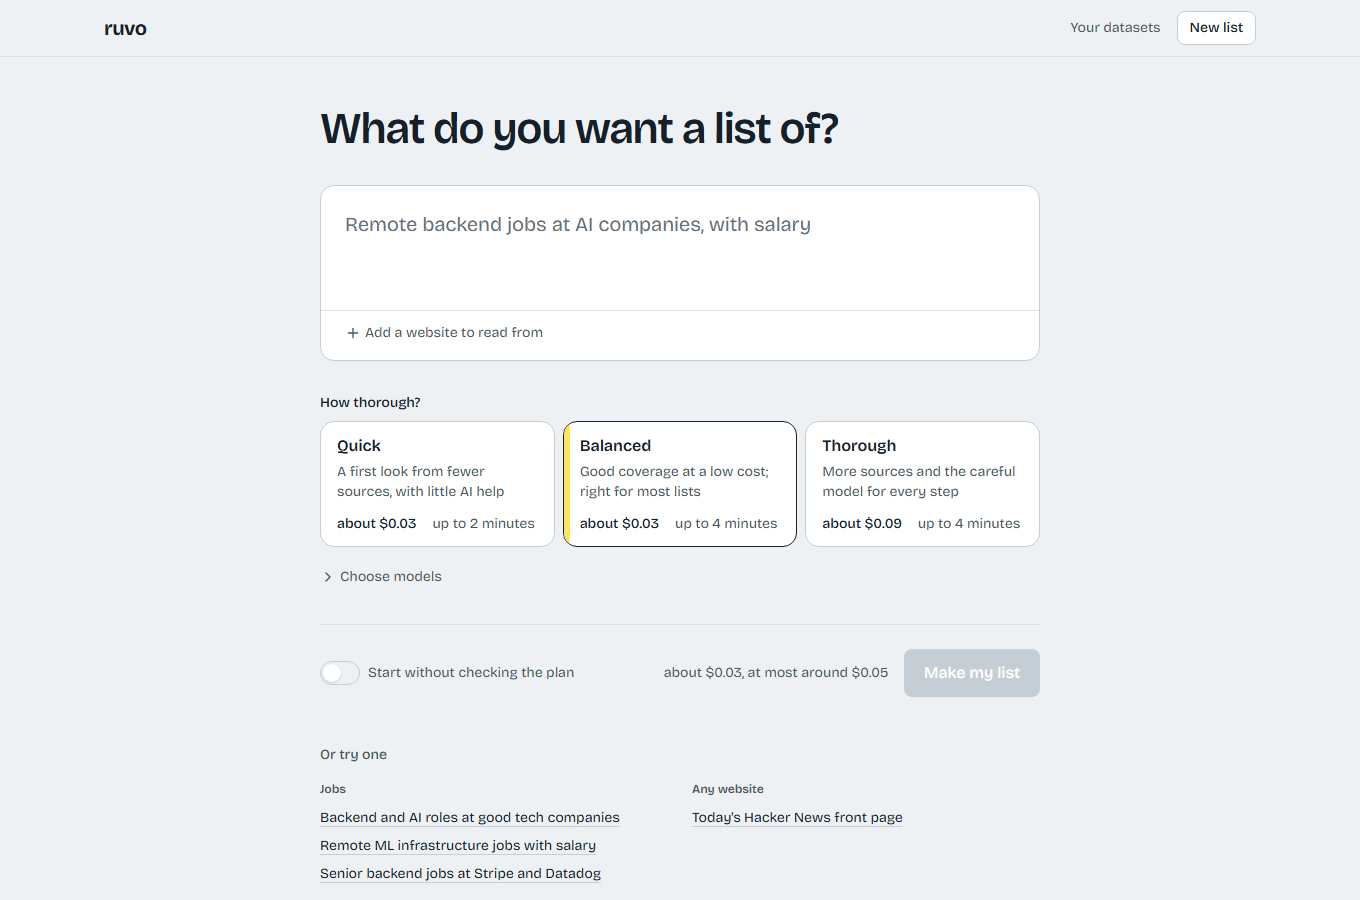
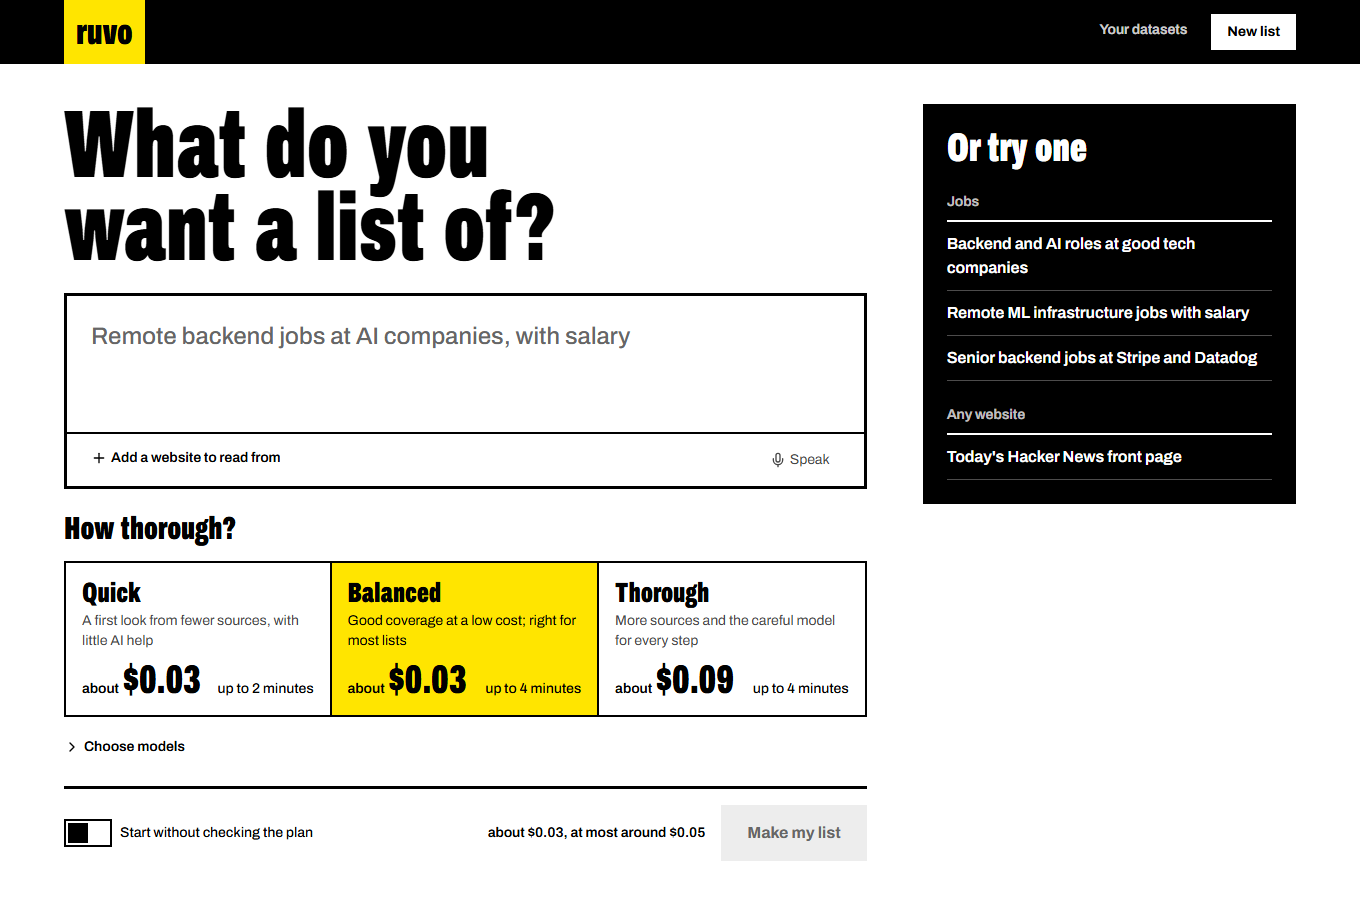
docs: editorial design system
- Describe the new palette, Archivo widths, type scale, rule weights and components
- /design renders the new tokens, rules and display sizes
- New ask and receipt screenshots

diff --git a/apps/web/components/design/design-sheet.tsx b/apps/web/components/design/design-sheet.tsx
@@ -16,33 +16,36 @@ import { Table, TableBody, TableCell, TableHead, TableHeader, TableRow } from "@
 import { Tooltip } from "@/components/ui/tooltip";
 
 const COLOURS: Array<[token: string, hex: string, role: string]> = [
-  ["canvas", "#EEF1F3", "Page background"],
-  ["sheet", "#FFFFFF", "Surfaces: composer, table, drawers"],
-  ["ink", "#16202A", "Text, primary buttons, focus"],
-  ["graphite", "#4A5761", "Secondary text"],
-  ["pencil", "#646F79", "Placeholders, hints, inactive labels"],
-  ["hairline", "#DCE2E6", "Rules and borders"],
-  ["highlighter", "#FFE45C", "Found, proven, chosen, progress"],
-  ["highlighter-wash", "#FFF6C7", "Soft highlight, focus halo"],
-  ["stamp", "#1E7A4F", "Sure, verified, done"],
-  ["amber", "#9A5B00", "Check this, warnings"],
-  ["brick", "#B42318", "Errors, destructive actions"],
+  ["canvas", "#FFFFFF", "Paper: page and surfaces"],
+  ["newsprint", "#EDEDED", "Quotes, zebra rows, empty tracks"],
+  ["ink", "#000000", "Text, rules, control outlines, focus"],
+  ["graphite", "#474747", "Secondary text"],
+  ["pencil", "#666666", "Placeholders, hints, inactive labels"],
+  ["hairline", "#D4D4D4", "Row rules inside tables and lists"],
+  ["highlighter", "#FFE500", "Found, proven, chosen, progress"],
+  ["highlighter-wash", "#FFF6A3", "Hover and focused fields"],
+  ["stamp", "#0F6B3F", "Sure, verified, done"],
+  ["amber", "#8A4F00", "Check this, warnings"],
+  ["brick", "#C0150C", "Errors, destructive actions"],
 ];
 
 // Literal class names, so Tailwind finds them.
 const TYPE: Array<[name: string, className: string, spec: string]> = [
-  ["display", "text-display font-semibold", "44 / 48, semibold"],
-  ["title", "text-title font-semibold", "28 / 34, semibold"],
-  ["heading", "text-heading font-semibold", "20 / 28, semibold"],
+  ["mega", "font-display text-mega font-black", "80–176, display black"],
+  ["display", "font-display text-display font-black", "52–104, display black"],
+  ["title", "font-display text-title font-black", "36–56, display black"],
+  ["heading", "text-heading font-semibold", "22 / 28, semibold"],
   ["body", "text-body", "16 / 24"],
   ["small", "text-small", "14 / 20"],
   ["micro", "text-micro", "12 / 16"],
 ];
 
-const RADII = [
-  ["control", "rounded-control"],
-  ["panel", "rounded-panel"],
-  ["sheet", "rounded-sheet"],
+// Rule weights, lightest to heaviest.
+const RULES = [
+  ["hairline", "border-t border-hairline"],
+  ["control", "border-t-2 border-ink"],
+  ["header", "border-t-[3px] border-ink"],
+  ["section", "border-t-[6px] border-ink"],
 ] as const;
 
 const SPACE: Array<[name: string, px: number]> = [
@@ -55,8 +58,8 @@ const SPACE: Array<[name: string, px: number]> = [
 
 function Section({ title, children }: { title: string; children: ReactNode }) {
   return (
-    <section className="space-y-group border-t border-hairline pt-stack">
-      <h2 className="text-heading font-semibold">{title}</h2>
+    <section className="space-y-group border-t-[6px] border-ink pt-group">
+      <h2 className="font-display text-title font-black">{title}</h2>
       {children}
     </section>
   );
@@ -65,18 +68,18 @@ function Section({ title, children }: { title: string; children: ReactNode }) {
 export function DesignSheet() {
   return (
     <div className="mx-auto max-w-5xl space-y-section pb-section">
-      <header className="space-y-tight">
-        <h1 className="text-display font-semibold">Design system</h1>
-        <p className="max-w-prose text-graphite">
-          A list-maker with receipts: quiet ink on cool paper, and <span className="mark">one highlighter</span> for what RUVO found or you chose.
+      <header className="space-y-item">
+        <h1 className="font-display text-display font-black">Design system</h1>
+        <p className="max-w-prose text-heading text-graphite">
+          A list-maker with receipts, set like a Swiss magazine: black ink on white paper, thick rules, and <span className="mark">one highlighter</span> for what RUVO found or you chose.
         </p>
       </header>
 
       <Section title="Colour">
         <ul className="grid grid-cols-2 gap-item sm:grid-cols-3 lg:grid-cols-4">
           {COLOURS.map(([token, hex, role]) => (
-            <li key={token} className="overflow-hidden rounded-panel border border-hairline bg-sheet">
-              <div className="h-16" style={{ background: `var(--color-${token})` }} />
+            <li key={token} className="border-2 border-ink bg-sheet">
+              <div className="h-16 border-b-2 border-ink" style={{ background: `var(--color-${token})` }} />
               <div className="space-y-0.5 p-3">
                 <p className="text-small font-medium">{token}</p>
                 <p className="text-micro text-graphite">{hex}</p>
@@ -88,7 +91,7 @@ export function DesignSheet() {
       </Section>
 
       <Section title="Type">
-        <p className="text-small text-graphite">Bricolage Grotesque for everything. Spline Sans Mono only for text quoted from a source page.</p>
+        <p className="text-small text-graphite">Archivo in two widths: extra condensed black for display and big numbers, normal width for reading. Spline Sans Mono only for text quoted from a source page.</p>
         <div className="space-y-item">
           {TYPE.map(([name, className, spec]) => (
             <div key={name} className="flex flex-wrap items-baseline gap-x-group">
@@ -103,19 +106,19 @@ export function DesignSheet() {
         </div>
       </Section>
 
-      <Section title="Space and radius">
+      <Section title="Space and rules">
         <div className="space-y-tight">
           {SPACE.map(([name, px]) => (
             <div key={name} className="flex items-center gap-item">
               <span className="w-20 text-micro text-graphite">{name}</span>
-              <span className="h-3 rounded-sm bg-ink/70" style={{ width: px * 2 }} />
+              <span className="h-3 bg-ink" style={{ width: px * 2 }} />
               <span className="text-micro text-pencil">{px}px</span>
             </div>
           ))}
         </div>
-        <div className="flex flex-wrap gap-item">
-          {RADII.map(([name, radius]) => (
-            <div key={name} className={`flex size-24 items-end border border-hairline-strong bg-sheet p-2 text-micro text-graphite ${radius}`}>
+        <div className="grid gap-item sm:grid-cols-4">
+          {RULES.map(([name, rule]) => (
+            <div key={name} className={`pt-tight text-micro text-graphite ${rule}`}>
               {name}
             </div>
           ))}
@@ -179,7 +182,7 @@ export function DesignSheet() {
       </Section>
 
       <Section title="Table, sheet, menu, tooltip, toast">
-        <div className="overflow-hidden rounded-panel border border-hairline bg-sheet">
+        <div className="border-t-[6px] border-ink">
           <Table>
             <TableHeader>
               <TableRow>

diff --git a/docs/design-system.md b/docs/design-system.md
@@ -4,73 +4,89 @@ RUVO is for anyone who needs a list: a recruiter, a job seeker, a student, a res
 They describe the list, check a short plan, and download a sheet they can trust. The design
 serves that job and hides the machinery until someone asks for it.
 
-Tokens live in `apps/web/app/globals.css`. In development, `/design` renders every token and
-component on one page.
+The look is a Swiss, slightly brutalist magazine: huge condensed type, black ink on white paper,
+thick rules, square blocks, and the highlighter as the one colour. Tokens live in
+`apps/web/app/globals.css`. In development, `/design` renders every token and component on one page.
 
 ## Principles
 
 1. **A list-maker with receipts.** The product is a sheet of rows. Every value has a receipt:
    where it came from and the words it was read from.
-2. **One highlighter.** The yellow mark means *found, proven or chosen*. It appears on quoted
-   source text in a receipt, on the option you picked, and on progress. It appears nowhere else,
-   and it is always a background behind ink, never a text colour.
-3. **Quiet everywhere else.** Ink on cool paper, hairlines instead of boxes, no shadows on static
-   panels. Buttons are ink, not brand colour.
-4. **Plain words first, details on request.** The default screens speak in everyday terms. The
+2. **One highlighter.** Yellow means *found, proven or chosen*: quoted source text, the option
+   you picked, the rows RUVO found (the row count and live count sit on a yellow block), values
+   checked against their page, and progress. Hovering a button marks it yellow because you are
+   about to choose it. It is always a background behind black ink, never a text colour.
+3. **Set the numbers big.** Row counts, prices and percentages are set in the condensed display
+   cut at poster sizes, with a plain sentence beside them saying what they mean.
+4. **Rules, not boxes.** Structure comes from ink rules of set weights and from square frames on
+   things you can press. No rounded corners, no soft shadows, no cards inside cards.
+5. **Plain words first, details on request.** The default screens speak in everyday terms. The
    pipeline (contract, workflow, recipes, decisions, event log) sits behind one **Show details**
    switch.
-5. **Money and time are always visible.** Before a run: an estimate. After: what it spent.
+6. **Money and time are always visible.** Before a run: an estimate. After: what it spent.
 
 ## Colour
 
 | Token | Hex | Use |
 |---|---|---|
-| `canvas` | `#EEF1F3` | Page background |
-| `sheet` | `#FFFFFF` | Surfaces: composer, table, drawers |
-| `ink` | `#16202A` | Text, primary buttons, focus outline |
-| `graphite` | `#4A5761` | Secondary text |
-| `pencil` | `#646F79` | Placeholders, hints, inactive labels |
-| `hairline` / `hairline-strong` | `#DCE2E6` / `#C5CED4` | Rules, borders, control outlines |
-| `highlighter` | `#FFE45C` | The signature: evidence quotes, the chosen option, progress |
-| `highlighter-wash` | `#FFF6C7` | Focus halo, new-row flash |
-| `stamp` (+ `-wash`) | `#1E7A4F` | Sure, verified, done |
-| `amber` (+ `-wash`) | `#9A5B00` | Check this, warnings |
-| `brick` (+ `-wash`) | `#B42318` | Errors, destructive actions |
+| `canvas`, `sheet` | `#FFFFFF` | Paper: the page and every surface |
+| `newsprint` | `#EDEDED` | Quotes, zebra rows, empty progress, disabled controls |
+| `ink` | `#000000` | Text, rules, control outlines, primary buttons, the top bar, focus |
+| `graphite` | `#474747` | Secondary text |
+| `pencil` | `#666666` | Placeholders, hints, inactive labels |
+| `hairline` | `#D4D4D4` | Row rules inside tables and lists (`hairline-strong` is ink) |
+| `highlighter` | `#FFE500` | The signature: found, proven, chosen, progress |
+| `highlighter-wash` | `#FFF6A3` | Row hover, focused fields |
+| `stamp` (+ `-wash`) | `#0F6B3F` | Sure, verified, done |
+| `amber` (+ `-wash`) | `#8A4F00` | Check this, warnings |
+| `brick` (+ `-wash`) | `#C0150C` | Errors, destructive actions |
 
 `structured`, `pattern`, `model` and `derived` colour the trust tiers in the charts behind
 *Show details*. Meaning colours always come with a word or an icon, never colour alone.
 
-Contrast (WCAG AA needs 4.5:1 for text): `ink` 14.5 / 16.5, `graphite` 6.6 / 7.4 and `pencil`
-4.5 / 5.1 on `canvas` / `sheet`. Ink on `highlighter` is 13:1. `stamp`, `amber` and `brick` each
-pass on their own wash (4.6, 4.8, 5.5).
+Contrast (WCAG AA needs 4.5:1 for text): `ink` 21 on paper; `graphite` 9.3 / 7.9 and `pencil`
+5.7 / 4.9 on paper / `newsprint`. Ink on `highlighter` is 16.5:1, graphite on it 7.3:1. On the
+black bar, white is 21:1 and 75% white 11:1. `stamp`, `amber` and `brick` pass on their washes
+(5.5, 5.6, 5.2).
 
 ## Type
 
-- **Bricolage Grotesque** for everything. It has character at display sizes and stays plain at
-  14px.
+- **Archivo**, one grotesque in two widths, the way Swiss designers used one family (Univers)
+  across widths. `font-display` sets its width axis to 62 (extra condensed); use it black (900)
+  for headlines and big numbers. Text is Archivo at normal width.
 - **Spline Sans Mono** only for text quoted from a source page, because that text is a quote.
 - Sentence case everywhere. No all-caps labels.
 
 | Name | Size / line height | Use |
 |---|---|---|
-| `text-display` | 44 / 48 | The ask screen's question |
-| `text-title` | 28 / 34 | Page titles (a dataset's name) |
-| `text-heading` | 20 / 28 | Section headings, drawer titles |
+| `text-mega` | 80–176 / 0.8 | Row count, live count |
+| `text-display` | 52–104 / 0.86 | The ask question, a dataset's name, page titles |
+| `text-title` | 36–56 / 0.95 | Section titles, "rows" beside the count |
+| `text-heading` | 22 / 28 | Composer text, a receipt's values, the request quote |
 | `text-body` | 16 / 24 | Default |
 | `text-small` | 14 / 20 | Tables, controls, secondary copy |
-| `text-micro` | 12 / 16 | Column headers, hints |
+| `text-micro` | 12 / 16 | Badges, receipt footnotes |
 
-## Space, radius, elevation, motion
+The three display sizes scale with the viewport (`clamp`), so phones get the same hierarchy.
+Smaller display-cut labels (tile names, prices, list titles) use arbitrary sizes of 28–44px.
 
-- **Rhythm** on a 4px grid: `tight` 8, `item` 16, `group` 24, `stack` 32, `section` 48
+## Space, rules, elevation, motion
+
+- **Rhythm** on a 4px grid: `tight` 8, `item` 16, `group` 24, `stack` 32, `section` 56
   (`gap-item`, `space-y-group`, `py-section`, …).
-- **Width**: 720px for asking and checking the plan, 1200px for results.
-- **Radius** follows hierarchy: `rounded-control` 8 (buttons, inputs), `rounded-panel` 14
-  (composer, table frame, tiles), `rounded-sheet` 20 (drawers, dialogs), full for chips.
-- **Elevation**: one level, `shadow-raised`, for things that float (drawers, menus, toasts).
-  Focus is a 2px ink outline, with a highlighter-wash halo on text fields.
+- **Width**: 1280px. The ask screen is asymmetric: the question and composer take eight
+  columns, the examples a black four-column block.
+- **Rules** have four weights: hairline 1px (rows), 2px ink (controls, items in a receipt),
+  3px ink (table heads, framed blocks), 6px ink (section openers above tables, lists, trust
+  figures).
+- **Radius** is 0 everywhere; `rounded-control/panel/sheet` stay as names at 0. Status
+  dots are square too.
+- **Elevation**: `shadow-raised` is a hard 6px ink offset, for menus and dialogs. The receipt
+  drawer is a full-height sheet with a thick left rule and a black masthead.
+- **Focus** is a 3px ink outline (highlighter on black blocks, via `.on-ink`). The composer
+  lifts on focus with a highlighter block framed in ink behind it.
 - **Motion**: 120 / 200 / 320 ms on one standard easing. Only two moments are choreographed:
-  the progress fill and new rows arriving. Reduced motion is respected.
+  the progress fill and new rows arriving (they flash highlighter). Reduced motion is respected.
 
 ## Words
 
@@ -92,7 +108,7 @@ The default screens use this vocabulary (`apps/web/lib/plain.ts`):
 | planner / worker model | the model that **understands your request** / **reads the pages** |
 | workflow, recipes, decisions, events | behind **Show details** |
 
-Buttons say what happens: **Make my list**, **Start**, **Stop**, **Run again**,
+Buttons say what happens: **Make my list**, **Start**, **Stop**, **Run again**, **Find more**,
 **Download**. A toast repeats the verb ("Started"). Errors say what happened and what to do.
 
 ## Components
@@ -102,15 +118,18 @@ in `apps/web/components/ui/`:
 
 | Component | Notes |
 |---|---|
-| `Button` | `primary` (ink), `secondary`, `quiet`, `danger`; sizes `sm`, `md`, `lg`, `icon` |
-| `Input`, `Textarea` | Ink border and highlighter-wash halo on focus |
-| `Badge` | Tones `sure`, `check`, `error`, `chosen`, `neutral`, `outline` |
-| `RadioGroup`, `RadioTile` | Tiles; the chosen one has an ink border and the highlighter bar |
-| `Select` | Options can carry a hint line (a model's price) |
-| `Switch` | The thumb turns highlighter when on |
-| `Sheet` | Right-hand drawer on Dialog: focus trap, Escape, focus return |
-| `Dialog`, `DropdownMenu`, `Tooltip`, `Table`, `Skeleton`, `Tabs`, `Toaster` | |
+| `Button` | Square, bold. `primary` (ink block), `secondary` (2px ink frame), `quiet` (underlined), `danger` (brick frame); enabled buttons turn highlighter on hover. Sizes `sm`, `md`, `lg`, `icon` |
+| `Input`, `Textarea` | 2px ink frame; the field turns highlighter-wash on focus |
+| `Badge` | Square. Tones `sure`, `check`, `error`, `chosen`, `neutral`, `outline` |
+| `RadioGroup`, `RadioTile` | Ink-framed blocks; the chosen one fills highlighter |
+| `Select` | Ink frame; open and highlighted options are highlighter. Options can carry a hint line |
+| `Switch` | Square track; the ink thumb turns highlighter when on |
+| `Sheet` | Right-hand drawer on Dialog with a black masthead: focus trap, Escape, focus return |
+| `Table` | 3px ink rule under the header, hairline rows, zebra in newsprint |
+| `Tabs` | On a 3px rule; the active tab is a black block |
+| `Dialog`, `DropdownMenu`, `Tooltip`, `Skeleton`, `Toaster` | Square; toasts are black with a highlighter edge |
 
-Do: one primary button per view; say the cost next to the action that spends it.
-Don't: use the highlighter as decoration, stack cards inside cards, or show a percentage where
-Sure / Likely / Check this will do.
+Do: one primary button per view; say the cost next to the action that spends it; put a plain
+sentence beside every big number.
+Don't: use the highlighter as decoration or as text colour, round a corner, or show a percentage
+where Sure / Likely / Check this will do.
